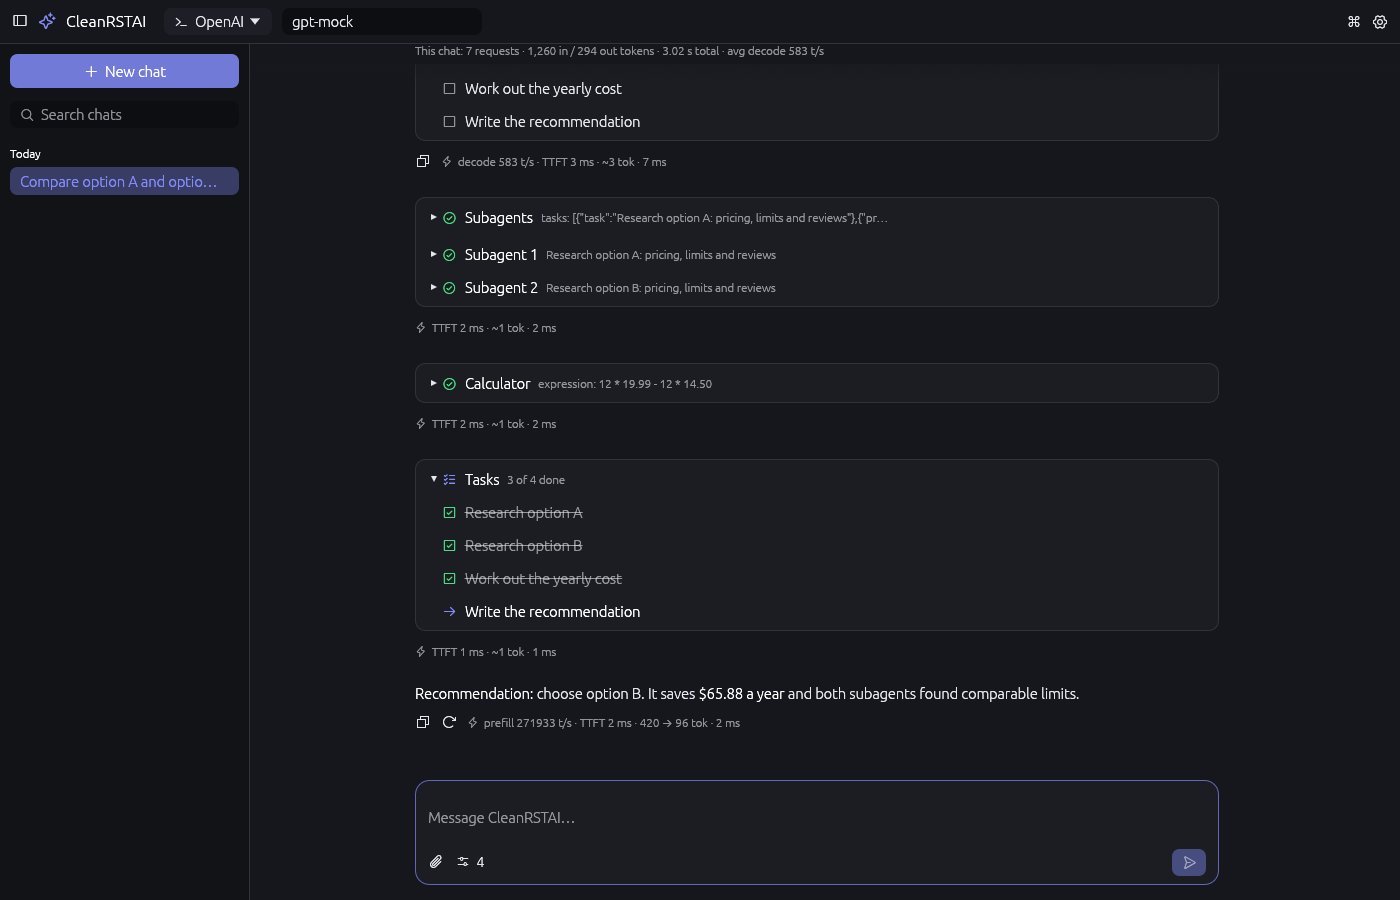
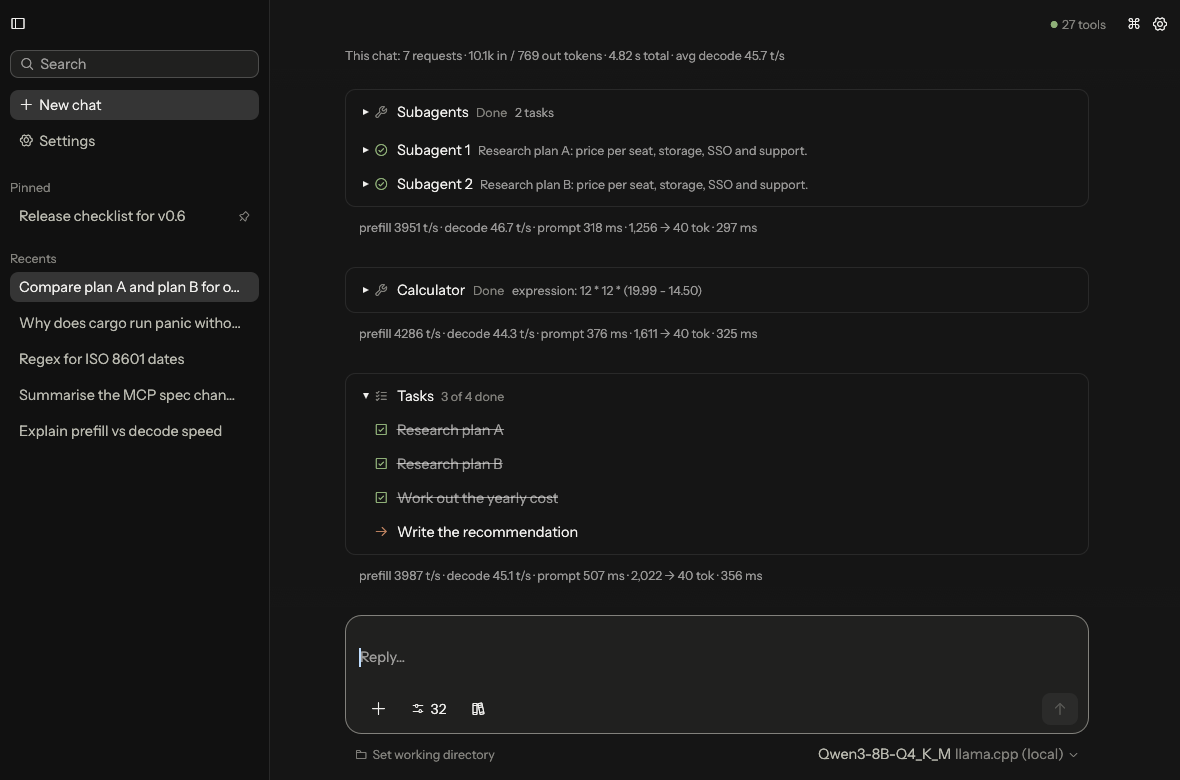
Refresh docs and screenshots; stop publishing to ghcr.io
- Retake every README screenshot with the current UI (workspace chat, tools
  menu, subagents, MCP settings) and add a new-chat image, shown as a grid.
- README: speed/token stats feature, model picker under the message box,
  "+" attach button, "Thought process", Windows status, server type in the
  Providers table, fmt/clippy in Development, generic version examples.
- Remove the GitHub Packages (ghcr.io/ORAS) publishing step from the release
  workflow and scripts/release-local.sh; releases go to GitHub Releases only.
- roadmap.md: sidebar now shows pinned and recents; note the v0.5.0 redesign,
  self-hosted runners and the open Windows runner item.
- Add CLAUDE.md with commands, release steps and architecture notes.

Claude-Session: https://claude.ai/code/session_01Ni5nVXJTkeHCpi6nsVEHxF

diff --git a/README.md b/README.md
@@ -3,19 +3,26 @@
 A fast, native desktop AI chat client written in Rust. It talks to any **OpenAI-compatible**
 endpoint and gives the model tools through **MCP servers** (stdio and Streamable HTTP).
 
-macOS is the primary platform; Linux and Windows are fully supported.
+macOS is the primary platform and Linux is fully supported. Windows works when built from
+source; the release workflow skips it until there is a Windows runner.
 
-![Chat with an MCP tool call](docs/screenshot.png)
+![A chat working in a project folder: the model searches the code, reads a file and suggests a fix](docs/screenshot.png)
 
 ## Features
 
 - **Any OpenAI-compatible API**: OpenAI, OpenRouter, Groq, Mistral, DeepSeek, Together, Gemini,
   or local servers such as Ollama, LM Studio, llama.cpp and vLLM. You can configure several
-  provider profiles and switch between them from the toolbar.
+  provider profiles and switch provider and model from the picker under the message box (or
+  with ⌘K).
 - **Model discovery**: *Fetch models* calls `GET /models` and fills the model picker.
 - **Streaming** responses (SSE), with a non-streaming fallback for servers that don't support it.
-- **Reasoning display**: `reasoning_content` / `reasoning` output appears in a *Thinking*
-  section, collapsed by default. **Settings → General → Reasoning** can keep it expanded, or
+- **Speed and token stats**: under every reply, prefill and decode speed, prompt time and
+  tokens in and out, plus a running total for the chat. llama.cpp's own `timings` are used
+  when the server reports them, and the cost when OpenRouter or a LiteLLM proxy reports it;
+  otherwise speeds are measured from the stream. Set **Server type** on a provider (or click
+  **Detect**) to get the llama.cpp or LiteLLM extras.
+- **Reasoning display**: `reasoning_content` / `reasoning` output appears in a *Thought
+  process* section, collapsed by default. **Settings → General → Reasoning** can keep it expanded, or
   expanded only while the model is thinking.
 - **Built-in tools** that work without any MCP server:
   - **Time & date**: the current date, time, weekday and time zone, and the time at other UTC
@@ -44,11 +51,9 @@ macOS is the primary platform; Linux and Windows are fully supported.
   provider and model (or lets the model pick a provider profile per task, e.g. a fast local
   model for simple tasks), system prompt, tool access, how many run at once, round limit and
   time limit.
-- **Per-chat tool switches**: the sliders menu next to the message box lists the built-in tools
-  and every MCP server and tool, each with a switch for the current chat. Settings keeps the
-  defaults for new chats.
-
-![Task list, subagents and the calculator in a chat](docs/tools-subagents.png)
+- **Per-chat tool switches**: the sliders menu next to the message box lists the built-in tools,
+  the workspace tools when the chat has a folder, and every MCP server and tool, each with a
+  switch for the current chat. Settings keeps the defaults for new chats.
 - **MCP client**:
   - **stdio** servers (`npx`, `uvx`, `docker`, any binary) with arguments, environment
     variables and a working directory.
@@ -82,8 +87,8 @@ macOS is the primary platform; Linux and Windows are fully supported.
   blocks are drawn as diagrams, and ```` ```svg ```` blocks and inline `<svg>` markup as images;
   click one to enlarge it, or copy its source or save it as an SVG file. Images from the web
   show as links unless you turn on **Load web images in replies** in Settings → General.
-- **Attachments**: attach images (PNG, JPEG, GIF, WebP) and text files with the paperclip button or by
-  dropping them on the window. Images go to vision models as `image_url` parts and text files
+- **Attachments**: attach images (PNG, JPEG, GIF, WebP) and text files with the **+** button
+  under the message box or by dropping them on the window. Images go to vision models as `image_url` parts and text files
   are included inline. Images returned by MCP tools appear in the chat; click any image to
   enlarge it.
 - **Export a chat as Markdown** from its right-click menu in the sidebar, including tool calls,
@@ -93,7 +98,14 @@ macOS is the primary platform; Linux and Windows are fully supported.
 - **Everything is configurable in the UI**: providers, MCP servers, system prompt, theme
   (system/light/dark), UI scale, send key, tool approval, round limit and timeouts.
 
-![MCP server settings](docs/settings-mcp.png)
+### Screenshots
+
+| | |
+|---|---|
+| ![A new chat: greeting, message box and model picker](docs/new-chat.png) | ![The tools menu with built-in, workspace and MCP tools](docs/tools-menu.png) |
+| A new chat | Per-chat tool switches |
+| ![Subagents, the calculator and the task list in a chat](docs/tools-subagents.png) | ![MCP server settings](docs/settings-mcp.png) |
+| Subagents, calculator and task list | MCP server settings |
 
 ## Build & run
 
@@ -114,7 +126,7 @@ open target/release/bundle/osx/CleanRSTAI.app
 ## Releases
 
 > **CI and releases run on self-hosted runners**, so they use no GitHub Actions minutes:
-> a Linux x64 machine labelled `gentoo` (CI, both Linux release builds, publishing) and a
+> a Linux x64 machine labelled `gentoo` (CI, both Linux release builds, the GitHub Release) and a
 > macOS ARM64 machine (CI, the macOS release build). Windows builds are disabled until there
 > is a Windows runner; `scripts/release-local.sh` (below) can still build the Windows files.
 >
@@ -126,7 +138,7 @@ open target/release/bundle/osx/CleanRSTAI.app
 
 ```sh
 scripts/release-local.sh              # fmt, clippy, unit + e2e tests, then build into dist/v<version>/
-scripts/release-local.sh --publish    # ...and create the GitHub Release and push to ghcr.io
+scripts/release-local.sh --publish    # ...and create the GitHub Release
 scripts/release-local.sh --skip-tests # build only
 ```
 
@@ -140,10 +152,9 @@ every target the machine can:
 | Windows x86_64 `.zip` / `.msi` | MinGW (`x86_64-w64-mingw32-gcc`); the `.msi` also needs `wixl` (msitools) |
 | macOS universal `.zip` / `.dmg` | a Mac |
 
-`--publish` needs `gh`, `oras`, and a token in `GH_TOKEN` (or `GITHUB_TOKEN`): a classic
-personal access token with the `repo` and `write:packages` scopes (GitHub Packages' container
-registry doesn't accept fine-grained tokens). Targets that could not
-be built are listed in the release notes.
+`--publish` needs `gh` and a token in `GH_TOKEN` (or `GITHUB_TOKEN`) that can create
+releases (a classic token with the `repo` scope, or a fine-grained one with *Contents: write*).
+Targets that could not be built are listed in the release notes.
 
 ### Releasing with GitHub Actions
 
@@ -151,7 +162,7 @@ Pushing a version tag runs `.github/workflows/release.yml`:
 
 ```sh
 # bump `version` in Cargo.toml first; the tag must match it
-git tag v0.1.0 && git push origin v0.1.0
+git tag vX.Y.Z && git push origin vX.Y.Z
 ```
 
 It builds:
@@ -165,18 +176,11 @@ It builds:
 | `CleanRSTAI-windows-x86_64.msi` | Windows x86_64 installer (Start menu shortcut, upgrades in place); *not built while Windows is disabled* |
 | `CleanRSTAI-windows-x86_64.zip` | Windows x86_64 portable `.exe`; *not built while Windows is disabled* |
 
-plus `SHA256SUMS.txt`, and publishes them in two places:
-
-- **GitHub Releases**: a release for the tag with the files attached (tags containing `-`, such
-  as `v0.2.0-beta.1`, are marked as pre-releases).
-- **GitHub Packages**: an OCI artifact at `ghcr.io/<owner>/cleanrstai:<tag>`. Stable versions
-  are also tagged `latest`. Download with [ORAS](https://oras.land):
-  ```sh
-  oras pull ghcr.io/d3v0ps-cloud/cleanrstai:v0.1.0
-  ```
+plus `SHA256SUMS.txt`, and attaches them to a GitHub Release for the tag (tags containing `-`,
+such as `v1.0.0-beta.1`, are marked as pre-releases).
 
 You can also release without pushing a tag: *Actions → Release → Run workflow* with a
-`version` such as `v0.1.0` creates the tag on the selected branch and publishes. Leaving
+`version` such as `vX.Y.Z` creates the tag on the selected branch and publishes. Leaving
 `version` empty only builds; the files are kept as workflow artifacts.
 
 ### Code signing
@@ -218,7 +222,7 @@ Open **Settings** (gear icon) (or press ⌘/Ctrl + ,).
 
 | Tab | What you can set |
 |---|---|
-| Providers | Name, base URL (with presets), API key, model, temperature, max tokens, streaming, timeout, extra headers |
+| Providers | Name, base URL (with presets), API key, model, temperature, max tokens, server type (with detection), token usage, streaming, timeout, extra headers |
 | MCP Servers | Add, import, enable or disable servers; stdio command/args/env/cwd or HTTP URL/headers; per-tool toggles |
 | Built-in Tools | Time & date, calculator, task list, web fetch and workspace tools on or off by default |
 | Subagents | Enable delegation; provider and model; per-task provider choice; tools; parallelism, task, round and time limits; system prompt |
@@ -310,11 +314,14 @@ Tools are shown to the model as `<server>__<tool>`, so give servers short, descr
 ## Development
 
 ```sh
+cargo fmt --check
+cargo clippy --all-targets -- -D warnings
 cargo test                  # unit tests
 cargo test -- --ignored     # end-to-end tests: mock LLM + the reference MCP "everything"
                             # server over stdio and Streamable HTTP (needs Node/npx)
-cargo clippy --all-targets
 ```
+
+CI runs the same checks on every push and pull request.
 
 Source layout:
 
@@ -329,7 +336,7 @@ src/
   subagent.rs     the delegate tool: parallel subagents with their own model/tool loop
   llm.rs          OpenAI-compatible /chat/completions and /models client
   sse.rs          incremental Server-Sent Events parser
-  mcp/            MCP client: stdio and Streamable HTTP transports, connection manager
+  mcp/            MCP client: stdio and Streamable HTTP transports, OAuth, connection manager
   config.rs       settings model, persistence, mcpServers JSON import
   export.rs       settings / conversations export and import
   secrets.rs      OS keychain storage for API keys and tokens
@@ -338,6 +345,7 @@ src/
   update.rs       GitHub Releases update check
   types.rs        messages and conversation storage
   env_path.rs     login-shell PATH import for GUI launches
+  testutil.rs     tiny scripted HTTP server for tests
 ```
 
 The UI is built with [egui](https://github.com/emilk/egui) and runs on the main thread. Network

diff --git a/CLAUDE.md b/CLAUDE.md
@@ -1,0 +1,110 @@
+# CLAUDE.md
+
+This file provides guidance to Claude Code (claude.ai/code) when working with code in this repository.
+
+CleanRSTAI is a desktop AI chat client (Rust, egui/eframe) for OpenAI-compatible endpoints
+with MCP support, built-in tools, subagents and per-chat workspace folders. It is a single
+binary crate (no lib target); edition 2024, `rust-version = "1.95"`.
+
+## Commands
+
+```sh
+cargo run --release                          # run the app
+cargo fmt --check                            # CI checks formatting (on Linux)
+cargo clippy --all-targets -- -D warnings    # CI fails on any warning
+cargo test                                   # unit tests
+cargo test <name>                            # one test or module, e.g. `cargo test tools::workspace`
+cargo test -- --ignored                      # e2e: mock LLM + `npx -y @modelcontextprotocol/server-everything`
+                                             # over stdio and Streamable HTTP (needs Node/npx)
+```
+
+CI (`.github/workflows/ci.yml`) runs fmt, clippy, `cargo test` and the ignored e2e tests on
+self-hosted runners (Gentoo Linux x64, Mac mini ARM64); Windows is intentionally disabled. A
+step puts `$CARGO_HOME/bin` first on `PATH` because the Gentoo box has an older system Rust.
+
+## Releases
+
+- The release tag must equal `v` + the `Cargo.toml` version (the workflow checks it), so
+  bump `version` in `Cargo.toml` (and `Cargo.lock`, via `cargo build`) in a PR first.
+- Then run `.github/workflows/release.yml` by `workflow_dispatch` with `version: vX.Y.Z`
+  (or push the tag). It builds a universal macOS `.app`/`.dmg`/`.zip` on the Mac and
+  cross-builds both Linux tarballs with `cargo-zigbuild` against glibc 2.28, then creates the
+  GitHub Release with the files and `SHA256SUMS.txt`.
+- `scripts/release-local.sh [--publish] [--skip-tests]` does the same from a local machine.
+- The repository name is hard-coded in `src/update.rs` (`LATEST_RELEASE_URL`) and
+  `scripts/release-local.sh`.
+- `roadmap.md` tracks which items shipped in which version.
+
+## Architecture
+
+**Threads and events.** egui runs on the main thread (`app::ChatApp`); network and MCP I/O
+run on a tokio runtime created in `main.rs`. Background work sends `agent::AppEvent`s over an
+unbounded channel that `ChatApp::handle_events` drains each frame, and calls
+`ctx.request_repaint()`. UI code never awaits.
+
+**One generation** (`agent::run`) streams a completion (`llm::chat_completion`, SSE via
+`sse.rs`), emits `ChatEvent`s (deltas, final message, tool approval, tool result, done), runs
+any tool calls and loops until the model answers without tools or hits `max_tool_rounds`.
+The toolbox is rebuilt every round so MCP servers that finish connecting are picked up.
+
+**Tools** (`tools/mod.rs`): a `Toolbox` for one request combines:
+- built-ins named `builtin__*` (time, calculate, update_tasks, fetch, delegate);
+- workspace tools with plain names (`read_file`, `file_glob_search`, `grep_search`,
+  `get_info`, `write_file`, `edit_file`, `exec_shell_command`, in `tools/workspace.rs`),
+  offered only when the chat has a `workspace` folder;
+- MCP tools routed as `<server>__<tool>` by `mcp::manager::ToolRouter`.
+
+`ToolSelection` resolves what is on: Settings defaults plus per-chat `ToolOverrides` keyed
+`builtin:<key>`, `server:<id>`, `tool:<server id>:<tool>`. `Toolbox::needs_approval` decides
+which calls ask first (MCP tools, `delegate`, `fetch`, and the workspace tools that write or
+run commands); everything else runs directly. Workspace paths are confined to the chosen
+folder (`..`, outside absolute paths and symlinks out are refused).
+
+**Approvals** (`approval.rs`): the agent sends `ChatEvent::ToolApproval` with a oneshot
+sender and the call's MCP origin; the app holds `PendingApproval`s on the `Run` and answers
+them. "Always allow this tool/server" is an in-memory per-chat `AlwaysAllow` list keyed by
+server id and MCP tool name (not the routed function name), so it survives renames.
+
+**Subagents** (`subagent.rs`): the `delegate` tool runs tasks in parallel, each with its own
+model/tool loop and a derived `ToolSelection` (never the task list, `delegate` or workspace
+tools; time/calculator/fetch only when allowed for subagents). Progress streams back as
+`SubagentProgress` events.
+
+**MCP** (`mcp/`): stdio and Streamable HTTP transports, OAuth (PKCE, dynamic registration,
+loopback redirect) in `mcp/oauth.rs`, and `McpManager`, which keeps connections in sync with
+settings, refreshes tools/resources/prompts on `list_changed`, and builds the `ToolRouter`.
+
+**Persistence**: settings are one JSON file (`config.rs`, paths via `directories` with
+`ProjectDirs("net", "bukn", "CleanRSTAI")`); each conversation is its own JSON file
+(`types::Conversation`). New fields must be `#[serde(default)]` (usually with
+`skip_serializing_if`) so older files still load. API keys and MCP secrets go to the OS
+keychain through the `secrets::SecretStore` trait (tests use the in-memory store), with
+plain-text fallback when the keychain is off or unavailable.
+
+**Providers**: `ProviderKind` (generic OpenAI-compatible, llama.cpp, LiteLLM) is detected by
+`llm::detect_kind` and decides which stats are read (`stats.rs`: server timings vs. measured
+prefill/decode, cost, served model).
+
+## UI conventions
+
+- The look follows the Claude desktop app: palette, fonts and widget styling live in
+  `ui/theme.rs` (`theme::palette(dark)`). Fonts are bundled in `assets/fonts` (Instrument
+  Sans for the interface, Newsreader serif for the greeting and replies, IBM Plex Mono for
+  code, Phosphor for icons; codepoints in `theme::icon`).
+- egui 0.37 takes button text from `TextStyle::Body`, so `Body` is the sans interface style;
+  prose uses the custom `theme::reading()` style, applied around markdown in `ui/markdown.rs`.
+- `ui/markdown.rs` splits replies into markdown segments (rendered by `egui_commonmark`) and
+  drawings: closed top-level ```` ```mermaid ```` / ```` ```svg ```` blocks and inline
+  `<svg>`, rendered to SVG and shown through egui's SVG loader. Web images become links
+  unless "Load web images in replies" is on.
+- Widget ids inside a reply are scoped by message index (`push_id`), and tool results are
+  matched to the tool messages that directly follow their assistant message, because some
+  servers reuse call ids like `call_0` across turns.
+- Chat views return `Action`s that `ChatApp::apply_actions` applies after drawing, rather
+  than mutating app state while borrowed.
+
+## Testing helpers
+
+- `testutil::serve` starts a mock HTTP server on a free port and records requests; agent,
+  LLM, fetch and MCP-over-HTTP tests use it as a fake OpenAI endpoint.
+- Workspace and fetch tests use real temp folders and real HTTP against that server.

diff --git a/roadmap.md b/roadmap.md
@@ -22,8 +22,9 @@ items are still open.
 
 - [x] Visual refresh: typography, spacing, colour palette, message layout, icons in place of
   emoji glyphs
-- [x] Collapsible sidebar, conversation grouping (Today / Yesterday / Last 7 days) and pinned
-  chats
+- [x] Collapsible sidebar with search, pinned chats and recents
+- [x] Quieter look in **v0.5.0**: warm charcoal and paper themes, a serif for replies, a
+  greeting on new chats, user messages in bubbles and the model picker under the message box
 - [x] Compact tool-call cards, with arguments and results expandable
 - [x] Settings as a full page with a search box
 - [x] Command palette (⌘K) and keyboard shortcuts
@@ -129,5 +130,7 @@ back.
 ## Maintenance
 
 - [x] Move GitHub Actions off the deprecated Node.js 20 runtime
+- [x] Run CI and releases on self-hosted runners (Linux x64 and macOS ARM64)
+- [ ] A Windows runner, so CI and releases build Windows again
 - [x] Turn on "Automatically delete head branches" in the repository settings, and delete the
   merged `claude/*` branches
